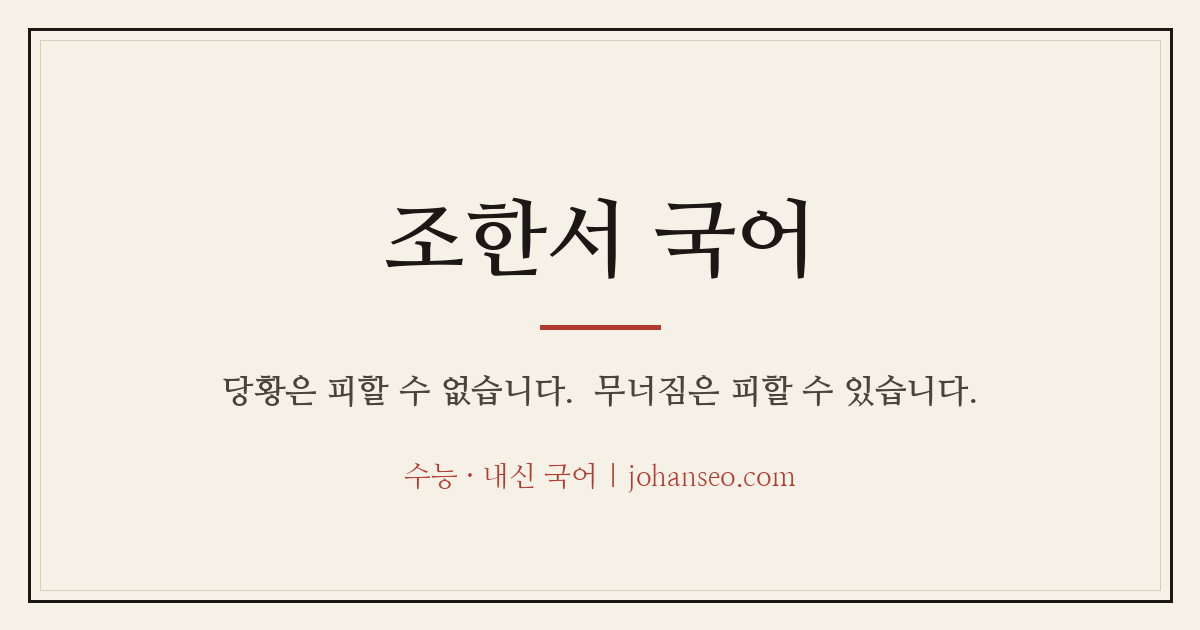
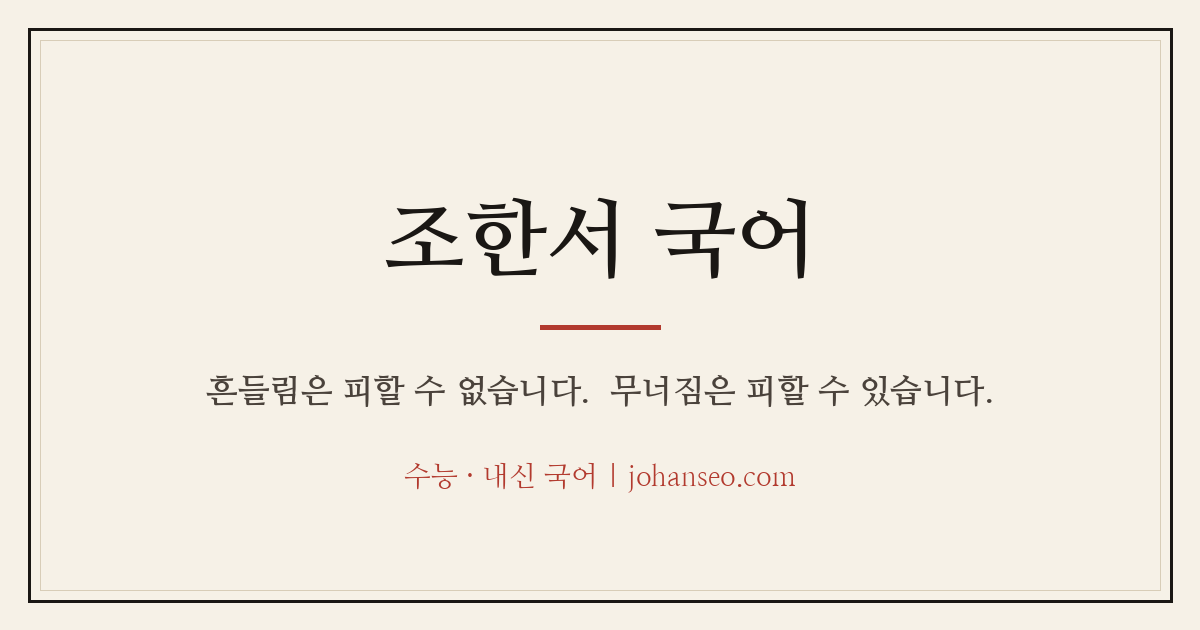
Add files via upload

Changed region(s): [[0.1542, 0.573, 0.8325, 0.6635]]

diff --git a/admin.html b/admin.html
@@ -133,6 +133,25 @@
             </div>
           </div>
 
+          <!-- 메인 문구 편집 -->
+          <div>
+            <p class="section-label">메인 문구 편집</p>
+            <h2 class="section-title" style="margin-bottom:16px">홈 첫 화면 문구 고치기</h2>
+            <div class="panel">
+              <div class="field">
+                <label for="heroText">내용 <span class="mini">— 저장하면 홈에 즉시 반영</span></label>
+                <textarea id="heroText" style="min-height:170px" placeholder="윗줄: 조한서 수능 · 내신 국어
+제목: 수능 당일,
+제목: 흔들림은 피할 수 없습니다.
+제목: 무너짐은 **피할 수 있습니다**.
+리드: 아래 설명 문장"></textarea>
+              </div>
+              <p class="mini" style="margin-bottom:12px">문법: <b>윗줄:</b> · <b>제목:</b>(줄마다 하나 = 줄바꿈) · <b>리드:</b> · 제목의 <b>**글자**</b>는 형광 강조</p>
+              <button class="btn jumuk" id="heroSaveBtn" style="width:100%">저장 (즉시 반영)</button>
+              <p class="msg" id="heroMsg" style="display:none"></p>
+            </div>
+          </div>
+
           <!-- 홈 소개 편집 -->
           <div>
             <p class="section-label">소개 편집</p>
@@ -313,6 +332,7 @@ Q: 다음 질문
       await loadStats();
       await loadGuideEditor();
       await loadStudents();
+      await loadHeroEditor();
       await loadTeacherEditor();
       await loadFaqEditor();
     }
@@ -543,6 +563,7 @@ Q: 다음 질문
       if (error) return msg($("stuMsg"), error.message.includes("duplicate") ? "이미 등록된 이름입니다." : "등록 실패: " + error.message, true);
       $("stuName").value = ""; toast(`${name} 추가됨`);
       await loadStudents();
+      await loadHeroEditor();
       await loadTeacherEditor();
       await loadFaqEditor();
     });
@@ -735,6 +756,21 @@ Q: 다음 질문
       });
       return html;
     }
+    async function loadHeroEditor() {
+      const { data } = await sb.from("site_content").select("content").eq("key", "hero").maybeSingle();
+      if (data && data.content) $("heroText").value = data.content;
+    }
+    $("heroSaveBtn").addEventListener("click", async () => {
+      msg($("heroMsg"), "", false);
+      const content = $("heroText").value;
+      if (!content.trim()) return msg($("heroMsg"), "내용이 비어 있습니다.", true);
+      if (!/^\s*제목\s*:/m.test(content)) return msg($("heroMsg"), "'제목:' 줄이 최소 1개 필요합니다.", true);
+      const { error } = await sb.from("site_content").upsert(
+        { key: "hero", content, updated_at: new Date().toISOString() }, { onConflict: "key" });
+      if (error) return msg($("heroMsg"), "저장 실패: " + error.message, true);
+      toast("저장 완료 — 홈 첫 화면에 즉시 반영됨");
+    });
+
     async function loadTeacherEditor() {
       const { data } = await sb.from("site_content").select("content").eq("key", "teacher").maybeSingle();
       if (data && data.content) $("teacherText").value = data.content;

diff --git a/index.html b/index.html
@@ -92,7 +92,7 @@
   <section id="faq">
     <div class="wrap" style="max-width:760px">
       <p class="section-label">자주 묻는 질문</p>
-      <h2 class="section-title" style="margin-bottom:20px">수능 국어 공부, 이런 게 궁금했다면?</h2>
+      <h2 class="section-title" style="margin-bottom:20px">수능 국어 공부</h2>
       <div id="faqList">
         <details class="faq-item">
           <summary>성적이 너무 들쭉날쭉해요 — 국어에서 '감'이란 무엇인가요?</summary>